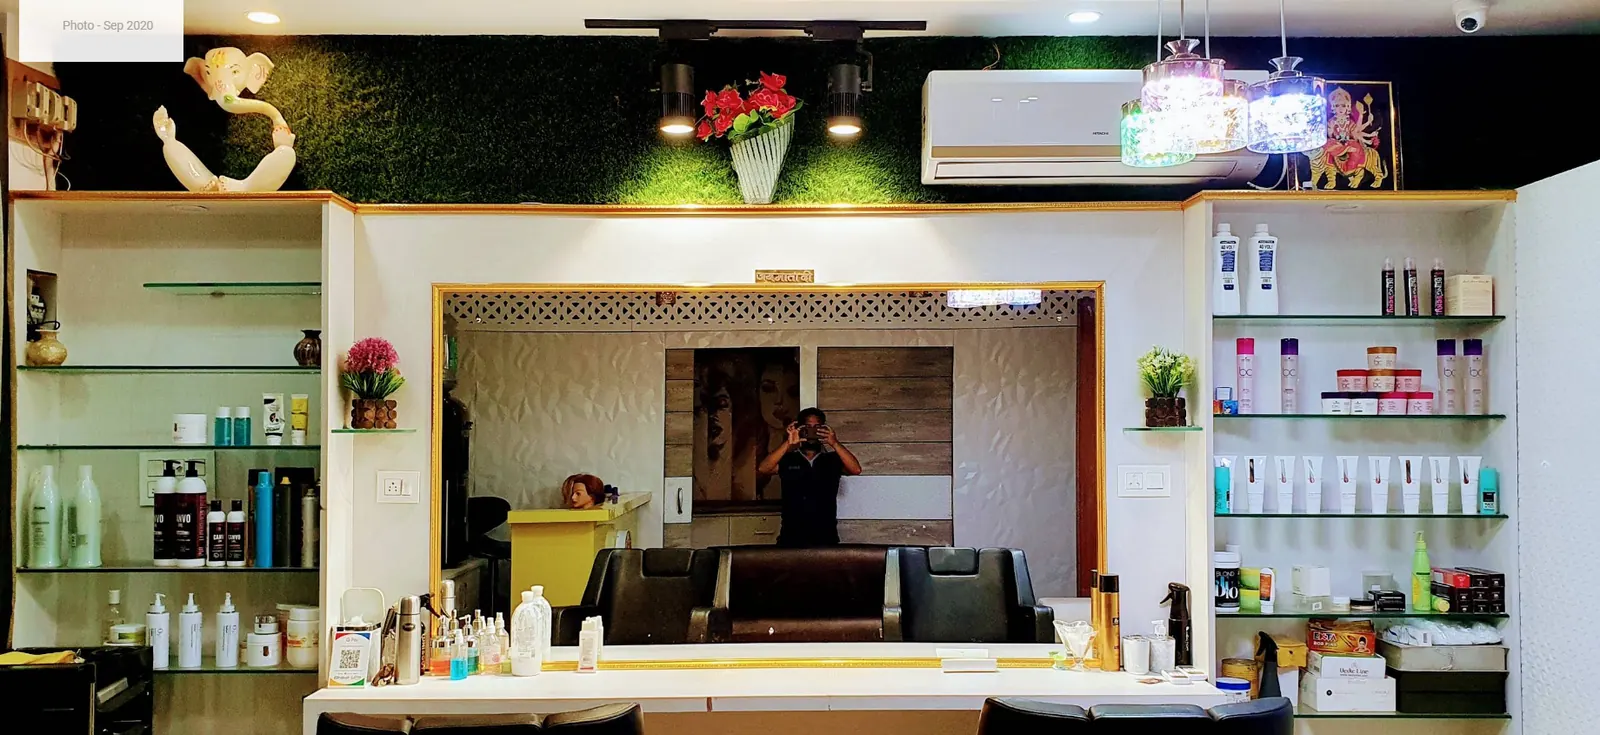
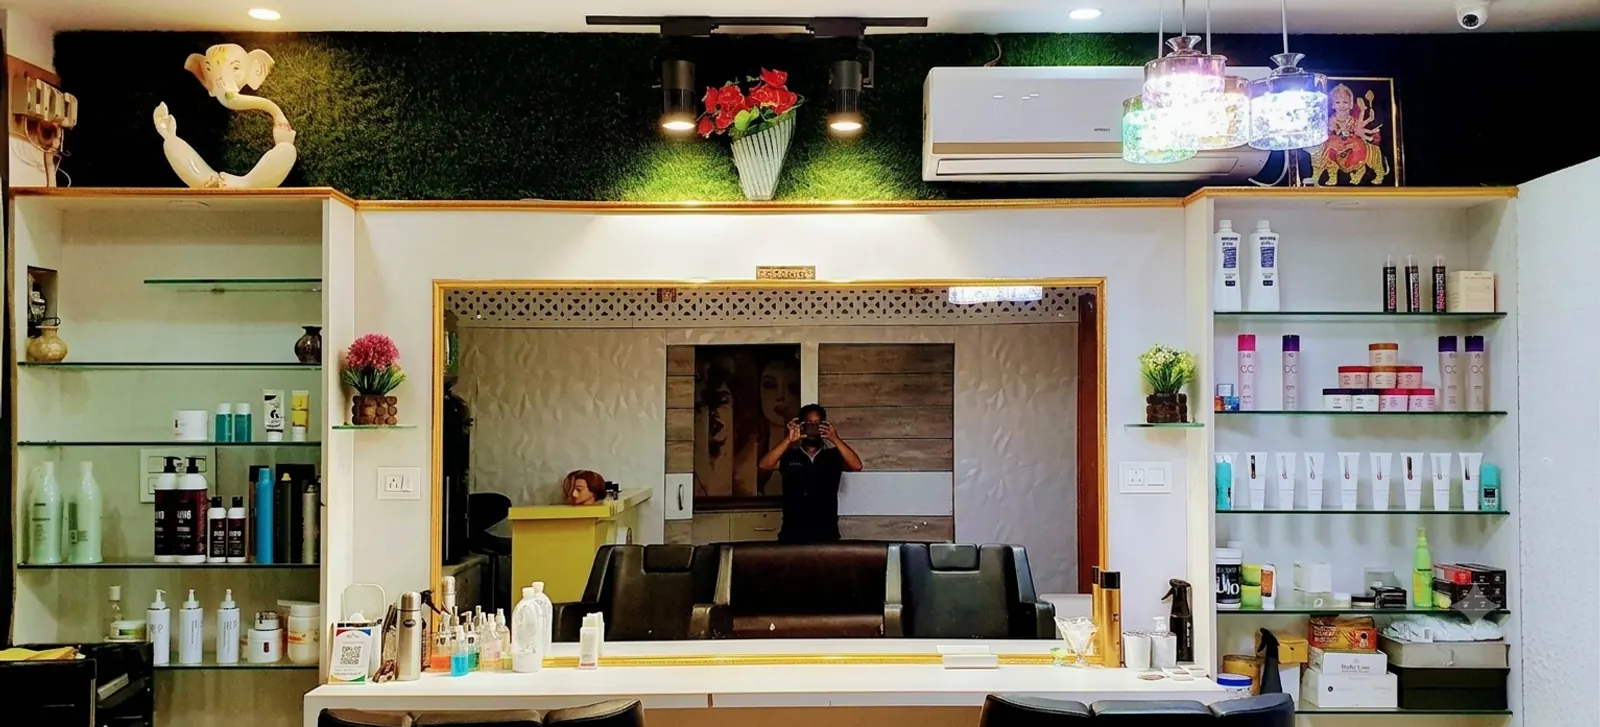
optimized new slider images

diff --git a/src/components/Hero.jsx b/src/components/Hero.jsx
@@ -201,7 +201,7 @@ export default function Hero() {
             onMouseLeave={() => setPaused(false)}
           >
             <div className="absolute -inset-3 rounded-[2.2rem] bg-gradient-to-b from-surface-container-high/70 to-surface-container-high/30 -rotate-2 ring-1 ring-primary/10" />
-            <div className="relative overflow-hidden rounded-[2rem] h-[420px] md:h-[600px] ring-1 ring-primary/15 shadow-[0_28px_60px_-12px_rgba(118,90,38,0.35)] bg-surface-variant">
+            <div className="relative overflow-hidden rounded-[2rem] aspect-[1600/727] md:aspect-auto md:h-[600px] ring-1 ring-primary/15 shadow-[0_28px_60px_-12px_rgba(118,90,38,0.35)] bg-surface-variant">
               {HERO_SLIDES.map((s, i) => (
                 <div
                   key={s.src}
@@ -210,17 +210,6 @@ export default function Hero() {
                     i === index ? 'opacity-100' : 'opacity-0'
                   }`}
                 >
-                  {/* mobile blur fill — landscape photos show FULL on phones */}
-                  {s.fitMobile === 'contain' && (
-                    <img
-                      src={s.src}
-                      alt=""
-                      aria-hidden="true"
-                      loading="lazy"
-                      decoding="async"
-                      className="absolute inset-0 w-full h-full object-cover blur-2xl scale-110 brightness-[0.85] md:hidden"
-                    />
-                  )}
                   <img
                     key={`${s.src}-${i === index ? 'on' : 'off'}`}
                     src={s.src}
@@ -228,7 +217,7 @@ export default function Hero() {
                     loading={i === 0 ? 'eager' : 'lazy'}
                     decoding="async"
                     fetchPriority={i === 0 ? 'high' : 'auto'}
-                    className={`relative w-full h-full ${s.fitMobile === 'contain' ? 'object-contain md:object-cover' : 'object-cover'} ${i === index ? 'animate-hero-bg' : ''}`}
+                    className={`w-full h-full object-cover ${i === index ? 'animate-hero-bg' : ''}`}
                   />
                 </div>
               ))}

diff --git a/src/data/images.js b/src/data/images.js
@@ -23,8 +23,8 @@ export const IMAGES = {
 // New photo? Add one more block (src in public/, mode auto).
 // mode 'minimal' = photo already has big text/board → short overlay text
 // mode 'full'    = clean photo → full headline block
-// fitMobile 'contain' = landscape photo shows FULL on phones (blur fill
-// behind), desktop keeps cinematic cover crop.
+// NOTE: all slide photos are normalized to 1600x727 so the mobile frame
+// (aspect-[1600/727]) shows them FULL with zero gray bands.
 export const HERO_SLIDES = [
   {
     src: '/hero.webp',
@@ -36,7 +36,6 @@ export const HERO_SLIDES = [
     sub: 'Spot the golden glow on Paniyala Road — walk in for everyday grooming or a complete occasion transformation.',
     cardTitle: 'Our Studio Front',
     cardSub: 'Paniyala Road, Gandhi Nagar',
-    fitMobile: 'contain',
   },
   {
     src: '/hero-2.webp',
@@ -48,7 +47,6 @@ export const HERO_SLIDES = [
     sub: 'A modern unisex beauty sanctuary creating effortless looks, thoughtful artisanal rituals, and quiet confidence.',
     cardTitle: 'Styling Lounge',
     cardSub: 'Calm chairs, honest craft',
-    fitMobile: 'contain',
   },
   {
     src: '/hero-3.webp',
@@ -60,7 +58,6 @@ export const HERO_SLIDES = [
     sub: 'Professional-grade, cruelty-free products chosen for Indian hair textures and skin — nothing harsh, ever.',
     cardTitle: 'Curated Shelves',
     cardSub: 'Professional-grade care',
-    fitMobile: 'contain',
   },
   {
     src: '/hero-4.webp',
@@ -72,6 +69,5 @@ export const HERO_SLIDES = [
     sub: 'From quick trims to slow Sunday rituals — every chair is designed for comfort, calm and great conversation.',
     cardTitle: 'Styling Stations',
     cardSub: 'Comfort in every chair',
-    fitMobile: 'contain',
   },
 ]
